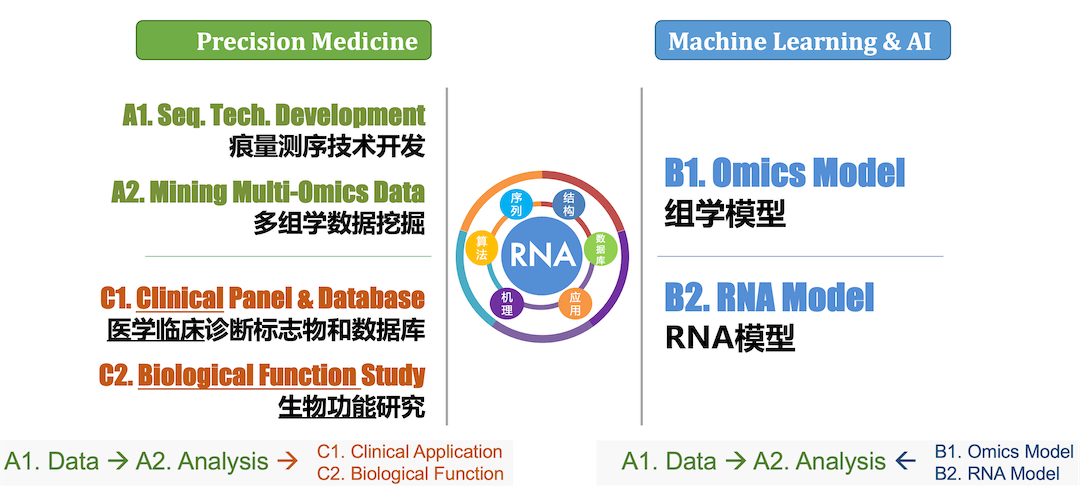
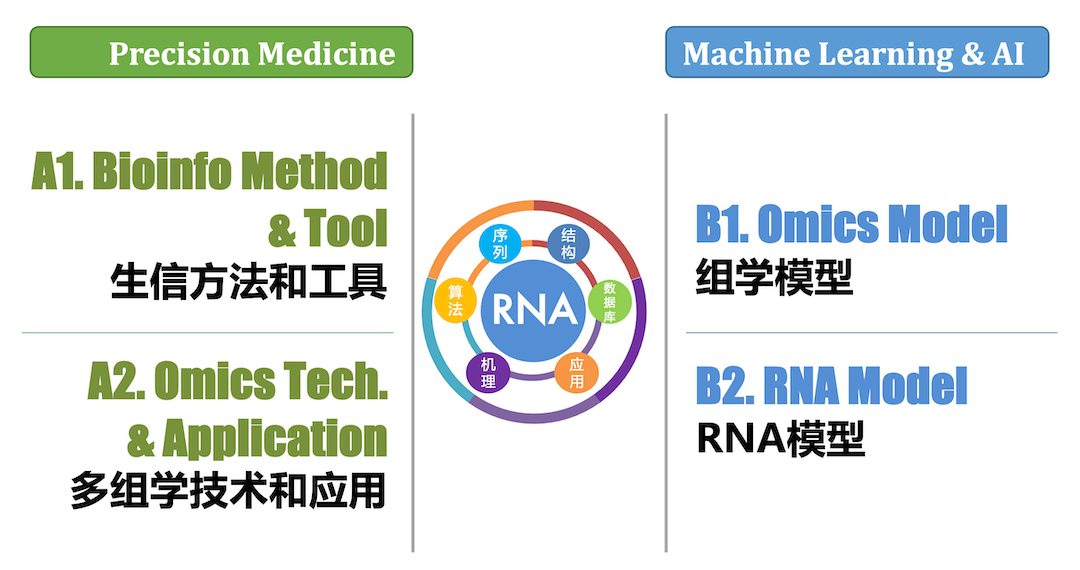
update projects

Changed region(s): [[0.0, 0.2134, 1.0, 0.9756], [0.5806, 0.0305, 0.9778, 0.1524], [0.0, 0.0305, 0.3972, 0.1524]]

diff --git a/docs/projects/index.md b/docs/projects/index.md
@@ -22,13 +22,27 @@ We have two major research directions.
 
 ## A. Precision Medicine {#MED}
 
-Early detection based on tumor biomarkers has very important clinical and social significance for cancer diagnosis and treatment, however, current biomarkers have poor generalization ability because of the inter-heterogeneity and intra-heterogeneity among individuals and tumor cells. 
+In recent years, people have gradually realized the importance of multi-omics big data in the precised diagnosis and treatment of complex diseases such as cancer. However, how to realize the effective integration and optimization of multi-dimensional data remains to be explored and studied.
 
-癌症早期诊断具有非常重要的临床价值和社会意义，但由于癌症异质性高等原因，基于标志物的液体活检技术在实际的癌症检测中泛化能力较差、准确性也有待提高。
+近年来，人们逐渐认识到多组学大数据在癌症等复杂性疾病的精准诊疗中的重要性。但具体如何实现多维数据的有效整合以及优化，还有待探索和研究。
+
+### A1 Development of Bioinformatics Method & Tool
+
+For multi-dimensional and multi-modal data, we need to perform 4 steps for machine learning and other analysis, including 1) Data Cleaning, 2) Feature extraction and engineering, 3) Model Fitting, 4) Classifier. We develop corresponding bioinformatics method, software, database and other tools for these four steps (see more in [Software](https://www.ncrnalab.org/software/)).
+
+对于多维度、多模态的高通量数据，例如 RNA-seq data，我们需要进行4个步骤来进行机器学习等分析，包括 1) Data Cleaning, 2) Feature extraction and engineering, 3) Model Fitting, 4) Classifier。我们针对这4个步骤开发相应的生物信息学方法、软件、数据库等工具（详见： [Software](https://www.ncrnalab.org/software/)）。
 
 
 
-### A1 NGS Technology Development
+<div align="middle">
+<img src="multiomics.webp" style="zoom:50%;" />
+<br>
+<small>Multi-Omics strategies for diagnosis and prognosis of cancer from liquid biopsy samples (Heitzer, et al., <i>Nature Reviews | Genetics</i>  2018)</small>
+</div> 
+
+
+
+### A2 Development of Omics Technology
 
 ***cfRNA-seq Development.*** The cfRNA content in clinical plasma samples is very low and fragmented. Therefore, it is necessary to solve the problems of low signal-to-noise ratio and high cost of sequencing data. We apply technologies such as TSO, early barcoding, UMI, and CRISPR-Cas9 to develop novel cfRNA-seq technologies that reduce the cost of high-throughput sequencing, and improve the signal-to-noise ratio of sequencing data.
 
@@ -48,21 +62,17 @@ Early detection based on tumor biomarkers has very important clinical and social
 
 
 
-### A2 Multi-Omics Data Mining
+### A+ Application for Cancer & Immunotherapy
 
-Recently, people are increasingly aware of the importance of big omics data in realizing early cancer diagnosis, but how to implement it is still under exploration. This project intends to develop new bioinformatics methods to integrate multi-omics data (e.g., cfDNA methylation, cfRNA/exRNA and sEV protein，etc) of cancer, which aims to explain cancer development based on an integrative, multi-dimensional level. We will first collect published data as a multi-omics database, and then we will explore deep learning, transfer learning, similarity network fusion and other bioinformatics analysis techniques for these paired and unpaired multi-omics data. Subsequently, we will sequence multi-omics data in cancer plasma samples using the latest sequencing technology; and develop a multi-dimensional model as a multi-molecular markers for non-invasive cancer detection. 
+We develop bioinformatics methods to integrate multi-omics data (e.g., cfDNA methylation, cfRNA/exRNA and sEV protein，etc) of cancer, which aims to explain cancer development based on an integrative, multi-dimensional level. We will first collect published data as a multi-omics database, and then we will explore deep learning, transfer learning, similarity network fusion and other bioinformatics analysis techniques for these paired and unpaired multi-omics data. Subsequently, we will sequence multi-omics data in cancer plasma samples using the latest sequencing technology; and develop a multi-dimensional model as a multi-molecular markers for non-invasive cancer screen, cancer microbiome and cancer immunotherapy and  studies. 
 
-近年来，人们逐渐认识到多组学大数据在实现癌症早期诊断中的重要性，但具体如何实现多维数据的有效整合以及优化出癌症体液标志物组合，还有待探索和研究。本项目拟探索新的生物信息学方法，分析和整合癌症病人血液中的cfDNA甲基化、exRNA/cfRNA和sEV（如外泌体）蛋白等体液多组学数据，从一个系统性的多分子层面揭示癌症发生发展规律。我们将首先收集发表数据构建体液多组学数据库，接着我们将基于这个数据库针对配对和不配对的多组学数据探索深度学习、迁移学习、相似网络融合等生物信息分析技术，构建多模态模型，开发用于癌症无创检测的多分子组合标志物。
+我们探索新的生物信息学方法，分析和整合癌症病人血液中的cfDNA甲基化、exRNA/cfRNA和sEV（如外泌体）蛋白等体液多组学数据，从一个系统性的多分子层面揭示癌症发生发展规律。我们将首先收集发表数据构建体液多组学数据库，接着我们将基于这个数据库针对配对和不配对的多组学数据探索深度学习、迁移学习、相似网络融合等生物信息分析技术，构建多模态模型，开发用于癌症无创检测的多分子组合标志物，进行癌症筛查、癌症微生物、癌症免疫治疗等研究。
 
 <div align="middle">
 <img src="research.webp" style="zoom:60%;" />
 <br>
 <small>We apply cfRNA-focused genomics and bioinformatics technologies to precision medicine, e.g., early cancer screen, cancer immunology and cancer microbiome.</small>
 </div>
-
-
-
-
 
 
 
@@ -74,17 +84,6 @@ Recently, people are increasingly aware of the importance of big omics data in r
 Omics data, especially those from body fluid, are sparse and heterogenous. Therefore, we tend to develop a paired integration model based on techniques like deep learning with regard to these features. At first, we collect paired multi-omics data (multi-omics, which includes proteomics, transcriptomics, genomics and epigenomics data) or multi-features matrix calculated by bioinformatic analysis from a single omics data (multi-features, features like expression and splicing calculated from RNA-seq, for example). Then we explore the possibility of integrating body fluid multi-omics data or multi-features data by multiple deep learning models, for example Transformer, Adversarial autoencoder (AAE), and Deep adversarial variational autoencoder model, to find multi-omics integrated markers through the important neurons in the latent space, and to illustrate the gene composition, omics sources and relations by model visualization.
 
 很多组学数据，尤其是体液中的组学数据，具有稀疏化、异质性明显等特点，我们将针对这些特点开发基于深度学习等技术的配对整合模型。首先我们收集配套的多组学数据（multi-omics，蛋白组学、转录组学、基因组学和表观组学数据）或者是由一个组学数据通过生物信息分析计算得到多特征矩阵（multi-features，例如，通过 RNA-seq 可以计算得到表达、剪接等多特征）。其次我们将探索转换器（Transformer）、对抗自编码器（Adversarial autoencoder, AAE）、深度对抗变分自动编码器模型（Deep adversarial variational autoencoder model）等深度学习模型进行体液多组学数据或者多特征数据的整合，通过潜在空间重要神经元找到多组学整合标记物，并通过模型可视化来解释多组学整合标记物的基因组成、组学来源和相关关系。
-
-
-
-<div align="middle">
-<img src="multiomics.webp" style="zoom:50%;" />
-<br>
-<small>Multi-Omics strategies for diagnosis and prognosis of cancer from liquid biopsy samples (Heitzer, et al., <i>Nature Reviews | Genetics</i>  2018)</small>
-</div> 
-
-
-
 
 
 ### B2 RNA Model
